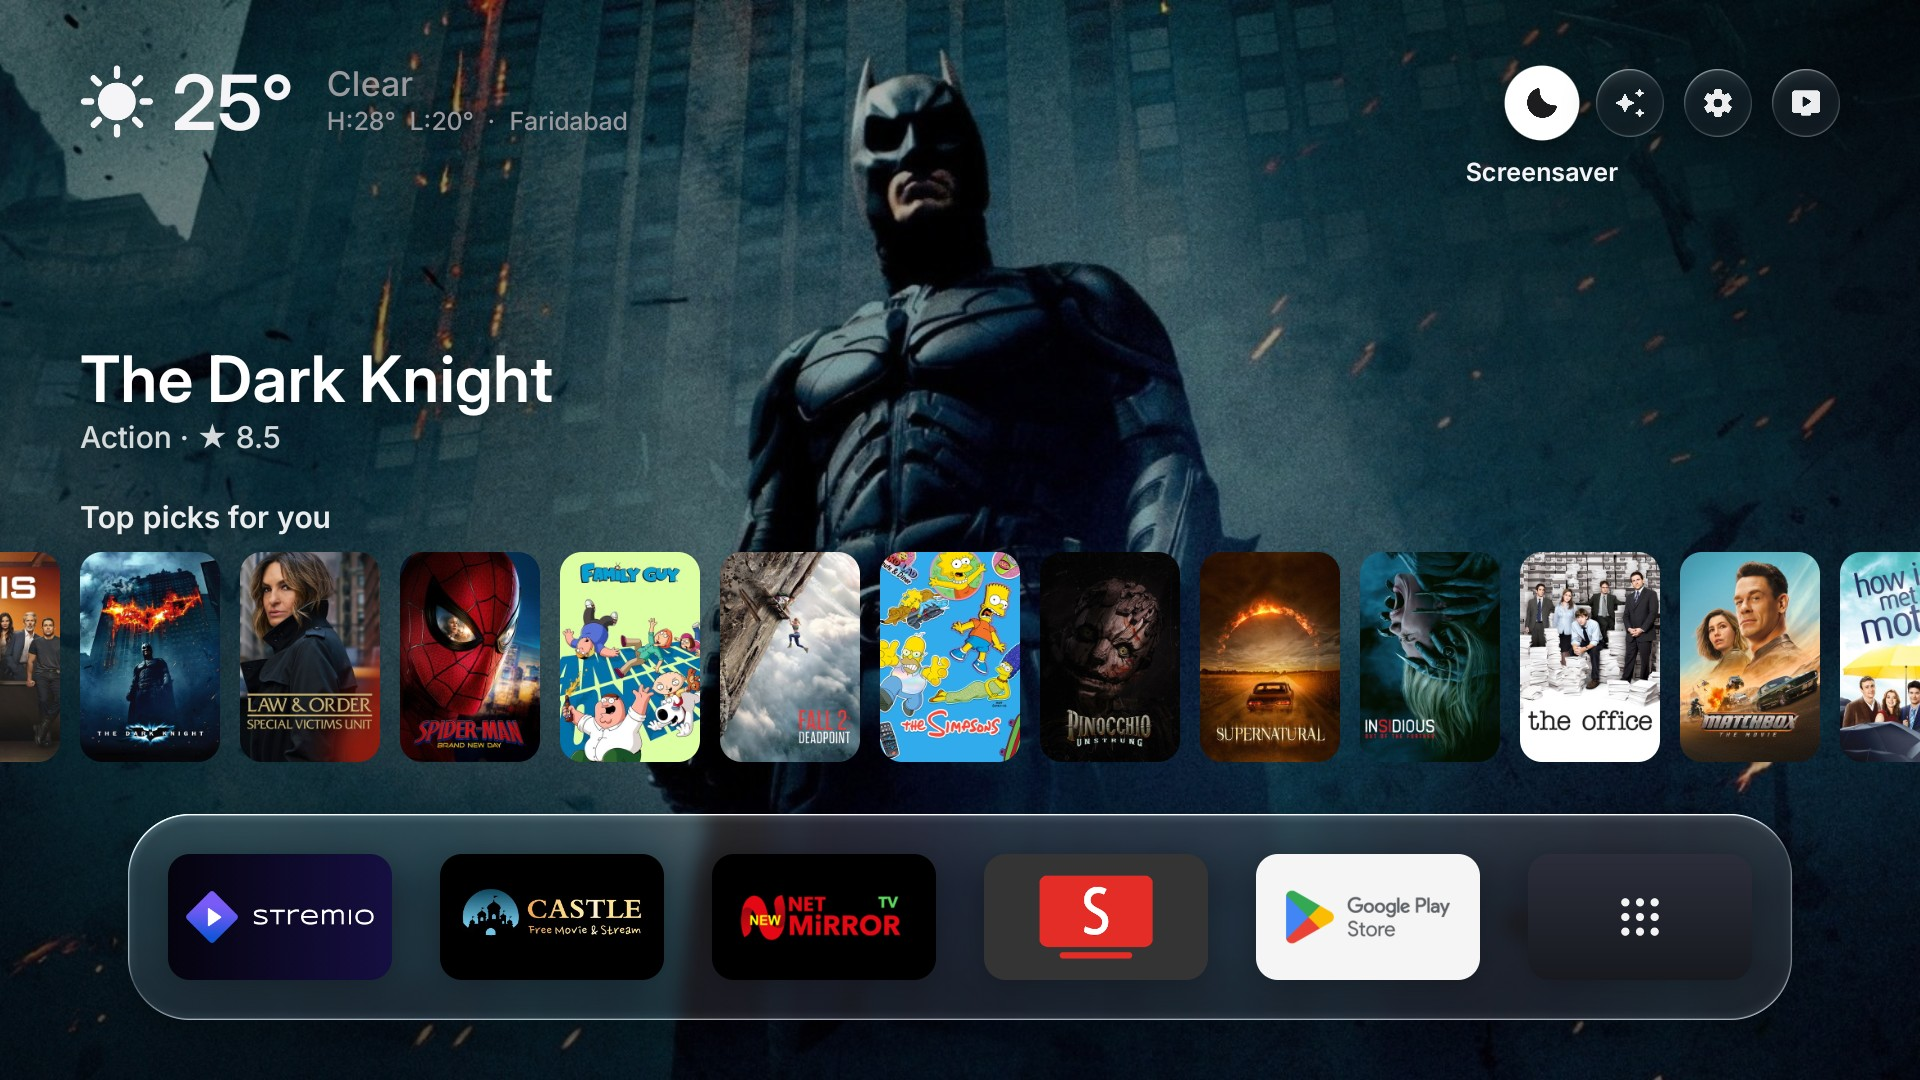
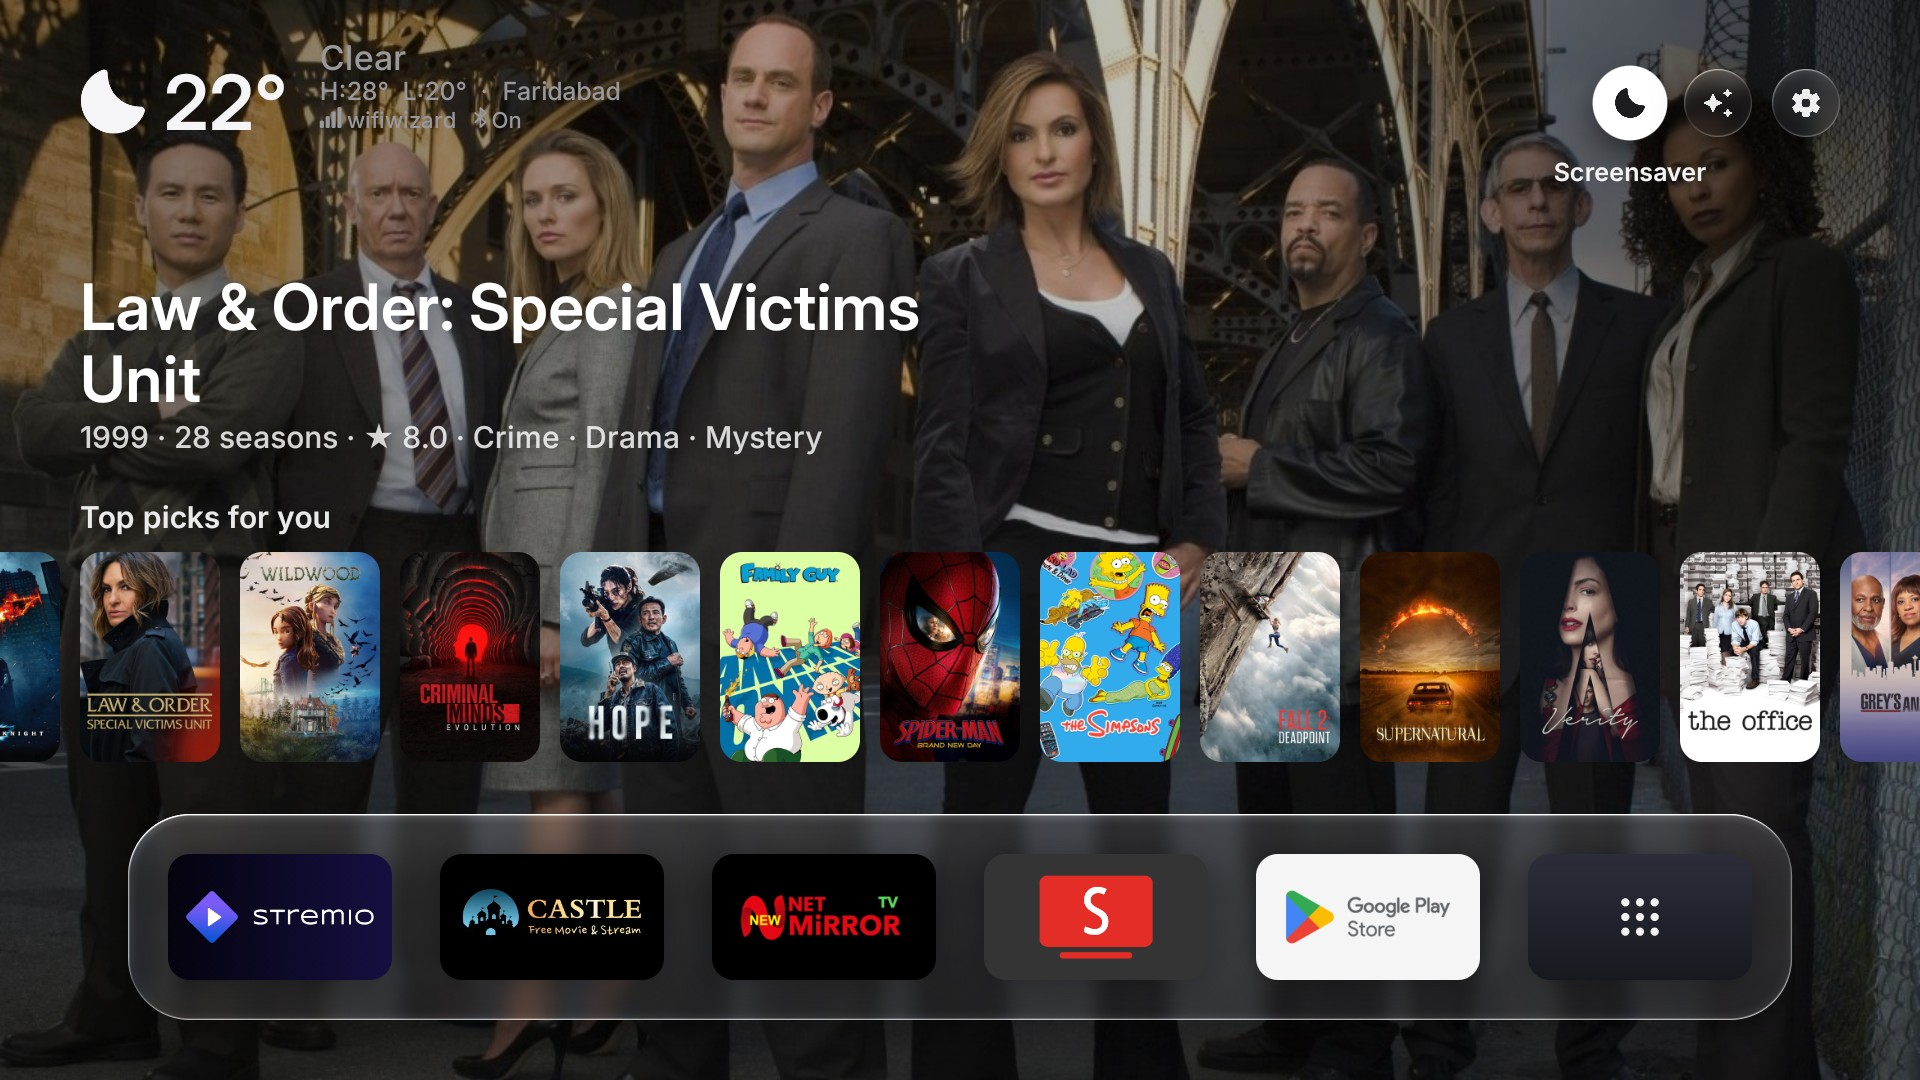
README and screenshots for the Wi-Fi and Bluetooth status
Retook page 1 (home, picks, top buttons) in all four looks and themes, and the
Quick Settings card in Material dark, each replacing the file of the same look,
theme and screen. README describes the line and the tiles' values; CLAUDE.md
notes how ConnectionStatus is shared.

diff --git a/README.md b/README.md
@@ -24,6 +24,7 @@ Android-only. Open source. Built with Claude Code. One button to undo.
 - **A catalog screen with trailers.** Trending, popular, top-rated and more, in rows you choose — hold OK on a title and its trailer plays right there, inline.
 - **Continue Watching, your way.** What you stopped part-way, the next episode of shows you follow, and your Trakt Watchlist, blended with Android TV's own Watch Next from your other apps.
 - **Weather and markets, one press away.** The hour-by-hour forecast, sunrise and sunset, and live crypto prices.
+- **Wi-Fi and Bluetooth at a glance.** A small line under the weather names the network (with its signal bars, or *Ethernet*) and the Bluetooth speaker or headphones in use; with nothing connected it says *Not connected*, or whether the radio is *On* or *Off*. Remotes and keyboards are left out. The first time, the TV asks to allow location (Android hides a network's name without it) and Bluetooth; a *Wi-Fi and Bluetooth status* switch in *Home Settings* turns the line off.
 - **Light by day, dark by night.** It follows your city's real sunset, the way your phone does — and switches between a frosted Liquid Glass look and Material 3 Expressive, your choice.
 - **A screensaver to match.** Full-screen photos of the picks with a big glass clock.
 - **Any remote, any button.** Press a button on your remote and Sky Home Launcher records it — not just the brand's own app buttons — and you choose what it opens.
@@ -80,7 +81,7 @@ button opens it by default, and on any other TV you give it to a button in *Remo
 | ![](screenshots/material-dark-quick-settings.jpg) | ![](screenshots/material-dark-quick-settings-notifications.jpg) | ![](screenshots/material-dark-settings-quick-tiles.jpg) |
 
 - **Tiles** open the TV's own screens, and never change a setting themselves: Settings, Wi-Fi, Bluetooth (the list of
-  paired and connected devices, with *Pair remote or accessory*), one tile per input of the TV (HDMI, AV…), Home and Apps.
+  paired and connected devices, with *Pair remote or accessory*), one tile per input of the TV (HDMI, AV…), Home and Apps. The Wi-Fi and Bluetooth tiles also show, at the right of the row, the network (with its signal bars) and the Bluetooth device in use, or whether Bluetooth is on or off; the row keeps its height.
   Any installed app can be added as a tile that opens it.
 - **Notifications** are listed under the tiles, newest first. OK on one opens its app; *Clear* clears them all (ongoing ones
   stay). Switching to Sky Home Launcher mode allows this through the TV's own ADB, and *Original* takes it back; where the TV
@@ -290,6 +291,7 @@ It's your code, and Claude Code finds its way around it. Try:
 | [`Adb.java`](app/src/com/skyhome/launcher/Adb.java) | The TV's own ADB, from inside the TV |
 | [`Recs.java`](app/src/com/skyhome/launcher/Recs.java) | The picks (TMDB) |
 | [`HomeData.java`](app/src/com/skyhome/launcher/HomeData.java) | Weather and prices |
+| [`ConnectionStatus.java`](app/src/com/skyhome/launcher/ConnectionStatus.java) | The Wi-Fi network and Bluetooth audio devices, read and drawn once for the home screen and Quick Settings |
 | [`HomeApps.java`](app/src/com/skyhome/launcher/HomeApps.java) | The shelf, inputs and All Apps |
 | [`DreamView.java`](app/src/com/skyhome/launcher/DreamView.java) | The screensaver |
 | [`SettingsActivity.java`](app/src/com/skyhome/launcher/SettingsActivity.java) | The settings screen (the app's icon) |

diff --git a/CLAUDE.md b/CLAUDE.md
@@ -206,6 +206,14 @@ entries; its system pieces are in `PROTECTED`. USB debugging opens ADB on 5555 t
   `RemoteKeys.open`), alongside the existing `TV_SETTINGS`. An added button's name can be changed from its app picker
   (*Rename this button*, an `AlertDialog` with an `EditText`, the same pattern as `askCity`); `Prefs.renameLearned` rewrites its
   `learn=` line without touching its key/scan code or app.
+- Wi-Fi and Bluetooth status (`ConnectionStatus`, one per process, fed by system callbacks, never polled): the network's name and
+  signal bars (or Ethernet; "Not connected"/"Off" without a link), and the Bluetooth audio device last connected ("+N" for more;
+  only the headset and A2DP profiles, so remotes, keyboards and game pads never show), else whether the radio is On or Off. `draw`
+  paints it as one line: page 1 puts it under the weather (`HomeTopPage.drawStatus`; in Cards and Spotlight the weather text is
+  three lines, in `PicksOff` it sits under the clock's weather), `Prefs.connection` (Home Settings) turns it off. `QuickCard`
+  uses `drawWifi`/`drawBluetooth` as the value at the right of its Wi-Fi and Bluetooth tiles, without icons for Bluetooth or a
+  missing link; it needs only `Ui.tr`, so `:keys` can use it. Android hides the network's name without location and device names
+  without `BLUETOOTH_CONNECT` (Android 12+): `HomeActivity` asks once with the TV's own dialogs (`ConnectionStatus.missing`), never ADB.
 - Quick Settings (`QuickCard`): a button set to `Prefs.QUICK_SETTINGS` (the Skyworth gear button by default; any brand through
   *Added buttons*) opens a hand-drawn card at the right edge, an accessibility overlay window of `RemoteKeyService` (`:keys`).
   It is focusable (the app below pauses; its own `dispatchKeyEvent` takes Up/Down/OK/Back) and scrolls. Tiles open the TV's
